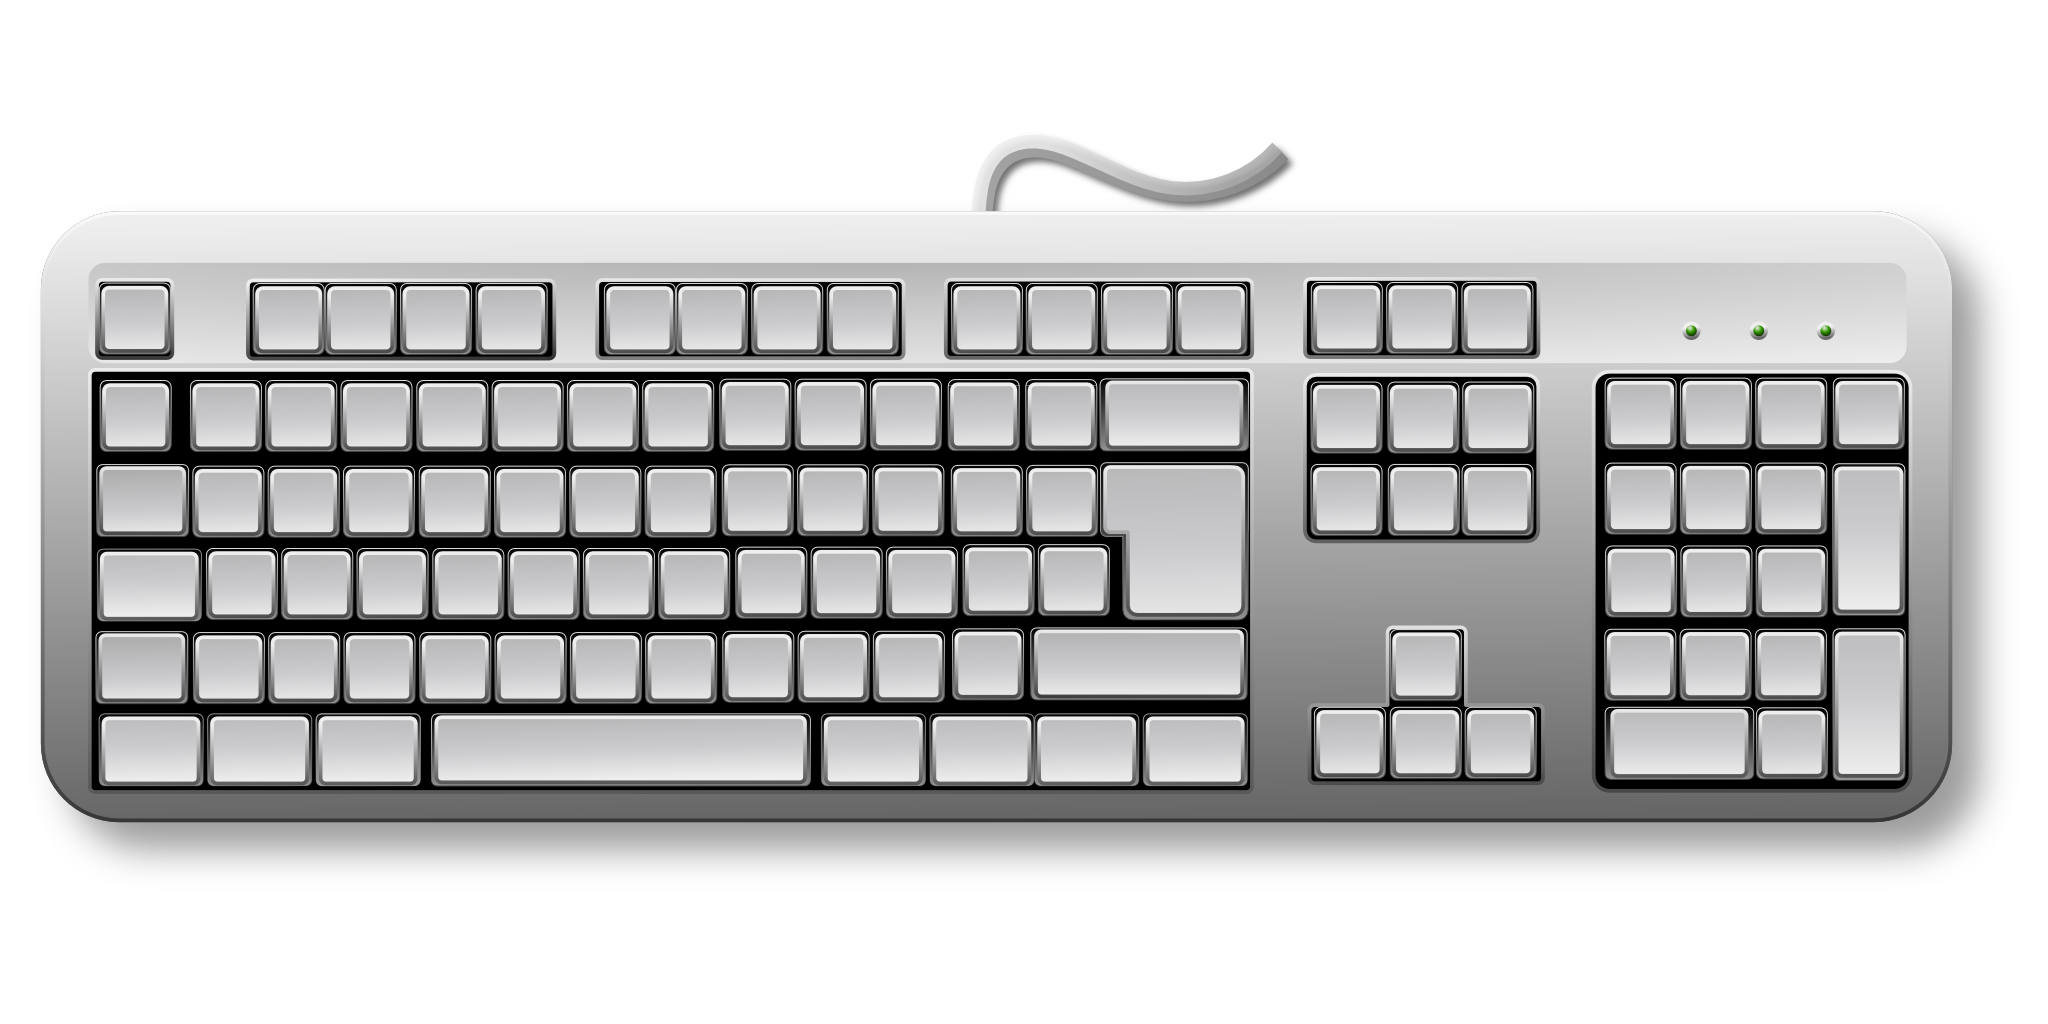
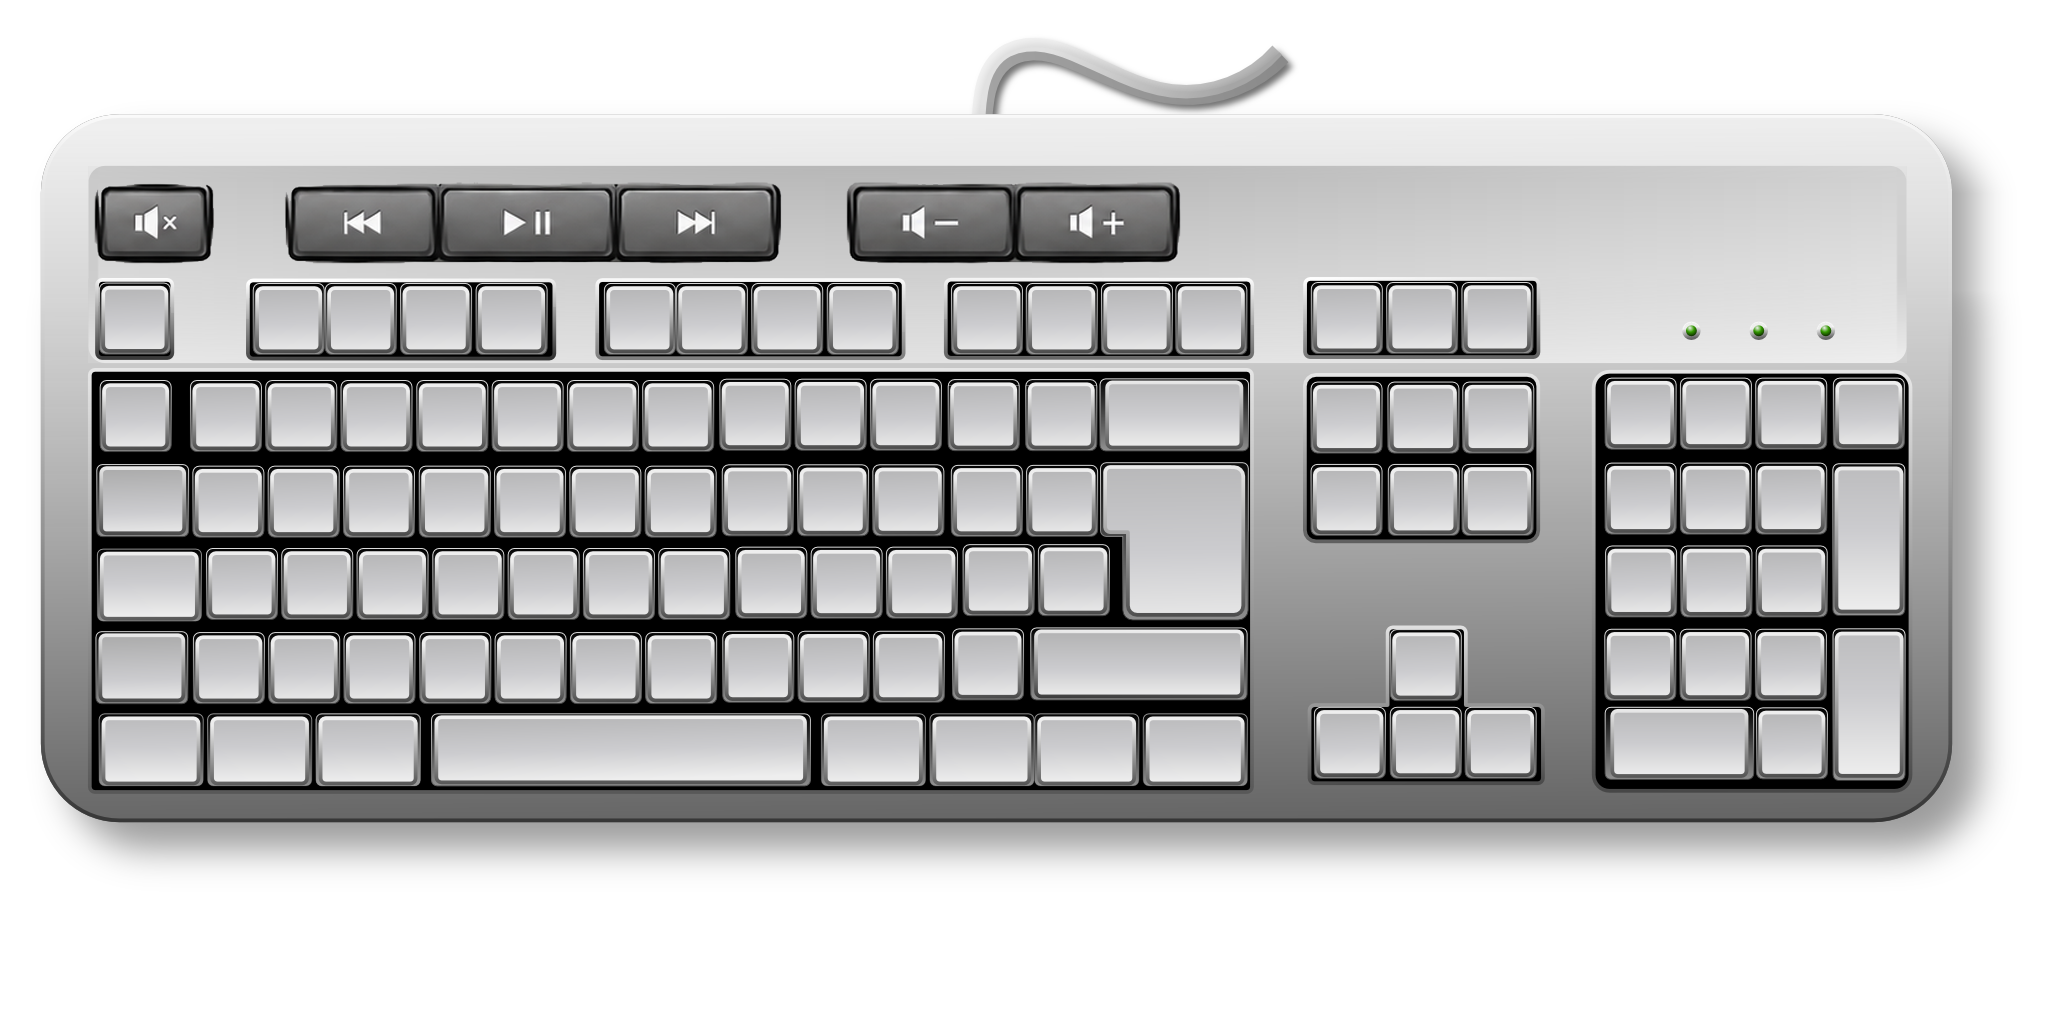
FPL_Input: Show the media and volume keys

Changed region(s): [[0.0, 0.0312, 0.9688, 0.2812]]

diff --git a/demos/FPL_Input/fpl_input.cpp b/demos/FPL_Input/fpl_input.cpp
@@ -18,6 +18,9 @@ Author:
 	Torsten Spaete
 
 Changelog:
+	## 2026-10-21
+	- Show the media and volume keys, the keyboard image has a row for them
+
 	## 2026-05-09
 	- Handle gamepad connect/disconnect in poll state
 	- Added gamepad mapping detection
@@ -463,7 +466,15 @@ public:
 		AddKeyDef(fplKey_Scroll, UVRectFromPos(KeyboardImageS, KeyboardSmallKeyS, V2i(1388, 286)), 2, MakeKeyChar(L"Scroll", V2f(0.0f, 0.4f)), MakeKeyChar(L"Lock", V2f(0.0f, -0.4f)));
 		AddKeyDef(fplKey_Pause, UVRectFromPos(KeyboardImageS, KeyboardSmallKeyS, V2i(1464, 286)), 1, MakeKeyChar(L"Pause"));
 
-		AddKeyDef(fplKey_Oem5, UVRectFromPos(KeyboardImageS, KeyboardSmallKeyS, V2i(102, 382)), 2, MakeKeyChar(L"^", V2f(-0.5f, -0.4f)), MakeKeyChar(L"°", V2f(-0.5f, 0.3f)));
+		// Media keys, the symbols are part of the image
+		AddKeyDef(fplKey_VolumeMute, UVRectFromPos(KeyboardImageS, V2i(103, 66), V2i(103, 191)), 0);
+		AddKeyDef(fplKey_MediaPrevTrack, UVRectFromPos(KeyboardImageS, V2i(141, 66), V2i(293, 191)), 0);
+		AddKeyDef(fplKey_MediaPlayPause, UVRectFromPos(KeyboardImageS, V2i(170, 67), V2i(441, 190)), 0);
+		AddKeyDef(fplKey_MediaNextTrack, UVRectFromPos(KeyboardImageS, V2i(155, 67), V2i(618, 190)), 0);
+		AddKeyDef(fplKey_VolumeDown, UVRectFromPos(KeyboardImageS, V2i(157, 66), V2i(855, 191)), 0);
+		AddKeyDef(fplKey_VolumeUp, UVRectFromPos(KeyboardImageS, V2i(154, 67), V2i(1018, 190)), 0);
+
+		AddKeyDef(fplKey_Oem5,UVRectFromPos(KeyboardImageS, KeyboardSmallKeyS, V2i(102, 382)), 2, MakeKeyChar(L"^", V2f(-0.5f, -0.4f)), MakeKeyChar(L"°", V2f(-0.5f, 0.3f)));
 		AddKeyDef(fplKey_1, UVRectFromPos(KeyboardImageS, KeyboardSmallKeyS, V2i(192, 383)), 2, MakeKeyChar(L"1", V2f(-0.5f, -0.4f)), MakeKeyChar(L"!", V2f(-0.5f, 0.45f)));
 		AddKeyDef(fplKey_2, UVRectFromPos(KeyboardImageS, KeyboardSmallKeyS, V2i(268, 383)), 2, MakeKeyChar(L"2", V2f(-0.5f, -0.4f)), MakeKeyChar(L"\"", V2f(-0.5f, 0.3f)));
 		AddKeyDef(fplKey_3, UVRectFromPos(KeyboardImageS, KeyboardSmallKeyS, V2i(343, 383)), 2, MakeKeyChar(L"3", V2f(-0.5f, -0.4f)), MakeKeyChar(L"§", V2f(-0.5f, 0.45f)));
@@ -585,6 +596,14 @@ public:
 		AddKeyDef(fplKey_Print, UVRectFromPos(KeyboardImageS, KeyboardSmallKeyS, V2i(1313, 286)), 1, MakeKeyChar(L"Print"));
 		AddKeyDef(fplKey_Scroll, UVRectFromPos(KeyboardImageS, KeyboardSmallKeyS, V2i(1388, 286)), 2, MakeKeyChar(L"Scroll", V2f(0.0f, 0.4f)), MakeKeyChar(L"Lock", V2f(0.0f, -0.4f)));
 		AddKeyDef(fplKey_Pause, UVRectFromPos(KeyboardImageS, KeyboardSmallKeyS, V2i(1464, 286)), 1, MakeKeyChar(L"Pause"));
+
+		// Media keys, the symbols are part of the image
+		AddKeyDef(fplKey_VolumeMute, UVRectFromPos(KeyboardImageS, V2i(103, 66), V2i(103, 191)), 0);
+		AddKeyDef(fplKey_MediaPrevTrack, UVRectFromPos(KeyboardImageS, V2i(141, 66), V2i(293, 191)), 0);
+		AddKeyDef(fplKey_MediaPlayPause, UVRectFromPos(KeyboardImageS, V2i(170, 67), V2i(441, 190)), 0);
+		AddKeyDef(fplKey_MediaNextTrack, UVRectFromPos(KeyboardImageS, V2i(155, 67), V2i(618, 190)), 0);
+		AddKeyDef(fplKey_VolumeDown, UVRectFromPos(KeyboardImageS, V2i(157, 66), V2i(855, 191)), 0);
+		AddKeyDef(fplKey_VolumeUp, UVRectFromPos(KeyboardImageS, V2i(154, 67), V2i(1018, 190)), 0);
 
 		// @TODO(final): fplKey_Oem3 `~
 		AddKeyDef(fplKey_1, UVRectFromPos(KeyboardImageS, KeyboardSmallKeyS, V2i(192, 383)), 2, MakeKeyChar(L"1", V2f(-0.5f, -0.4f)), MakeKeyChar(L"!", V2f(-0.5f, 0.45f)));
